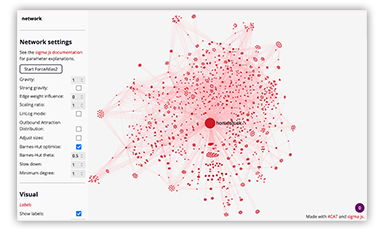
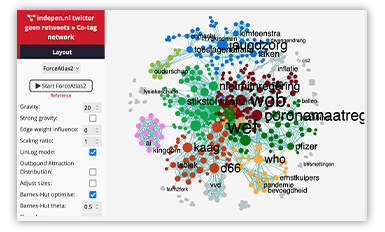
Update readme, update network viz screenshot

diff --git a/README.md b/README.md
@@ -39,13 +39,14 @@ The following platforms are supported through other tools, from which you can
 import data into 4CAT for analysis:
 
 * Facebook and Instagram (via [CrowdTangle](https://www.crowdtangle.com) exports)
-* Instagram, TikTok and LinkedIn (via
+* Instagram, TikTok, LinkedIn and Parler (via
   [Zeeschuimer](https://github.com/digitalmethodsinitiative/zeeschuimer) or CrowdTangle)
 
 A number of other platforms have built-in support that is untested, or requires
 e.g. special API access. You can view the [data sources in our wiki](https://github.com/digitalmethodsinitiative/4cat/wiki/Available-data-sources) or review [the data
 sources' code](https://github.com/digitalmethodsinitiative/4cat/tree/master/datasources)
-in the GitHub repository.
+in the GitHub repository. It is also possible to import your own CSV files into 
+4CAT for analysis.
 
 ## Install
 You can install 4CAT locally or on a server via Docker or manually. Copying our `docker-compose.yml file`, `.env` file, and using
@@ -63,14 +64,10 @@ Please check our
 [issues](https://github.com/digitalmethodsinitiative/4cat/issues) and create
 one if you experience any problems (pull requests are also very welcome).
 
-## Components
-4CAT consists of several components, each in a separate folder:
+## Modules
+4CAT is a modular tool and easy to extend. The following two folders in the 
+repository are of interest for this: 
 
-- `backend`: A standalone daemon that collects and processes data, as queued via
-  the tool's web interface or API.
-- `webtool`: A Flask app that provides a web front-end to search and analyze
-  the stored data with.
-- `common`: Assets and libraries.
 - `datasources`: Data source definitions. This is a set of configuration
   options, database definitions and python scripts to process this data with.
   If you want to set up your own data sources, refer to the
